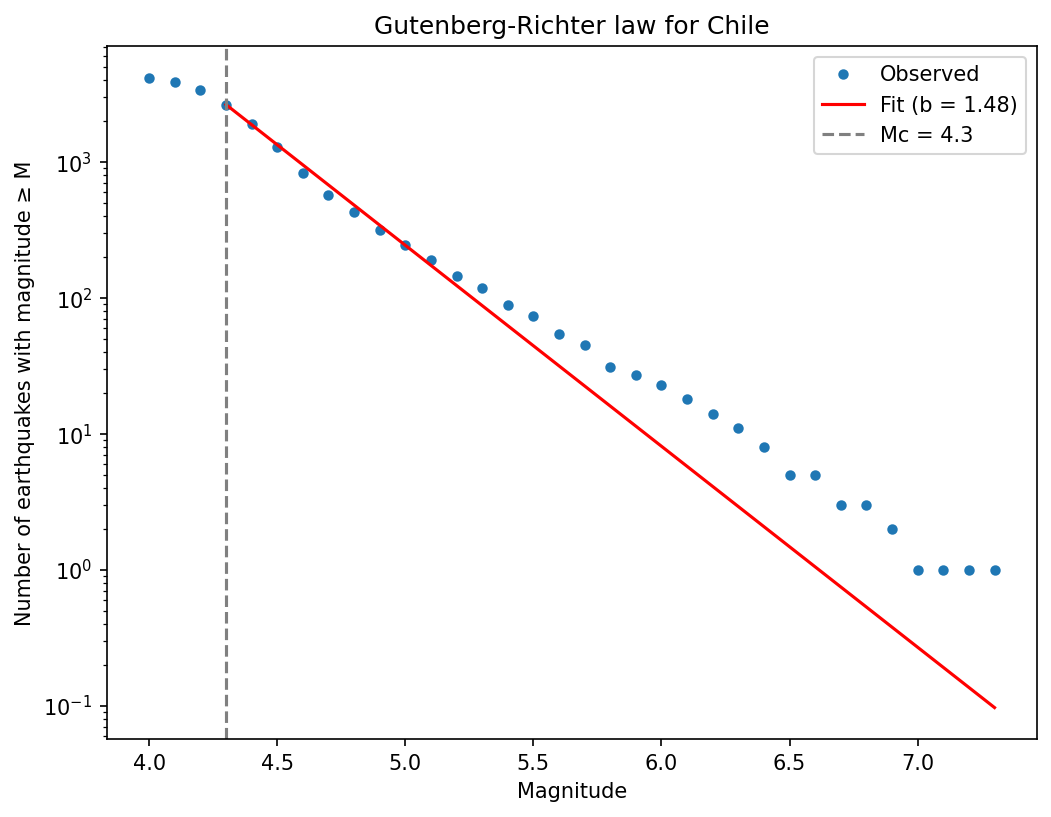
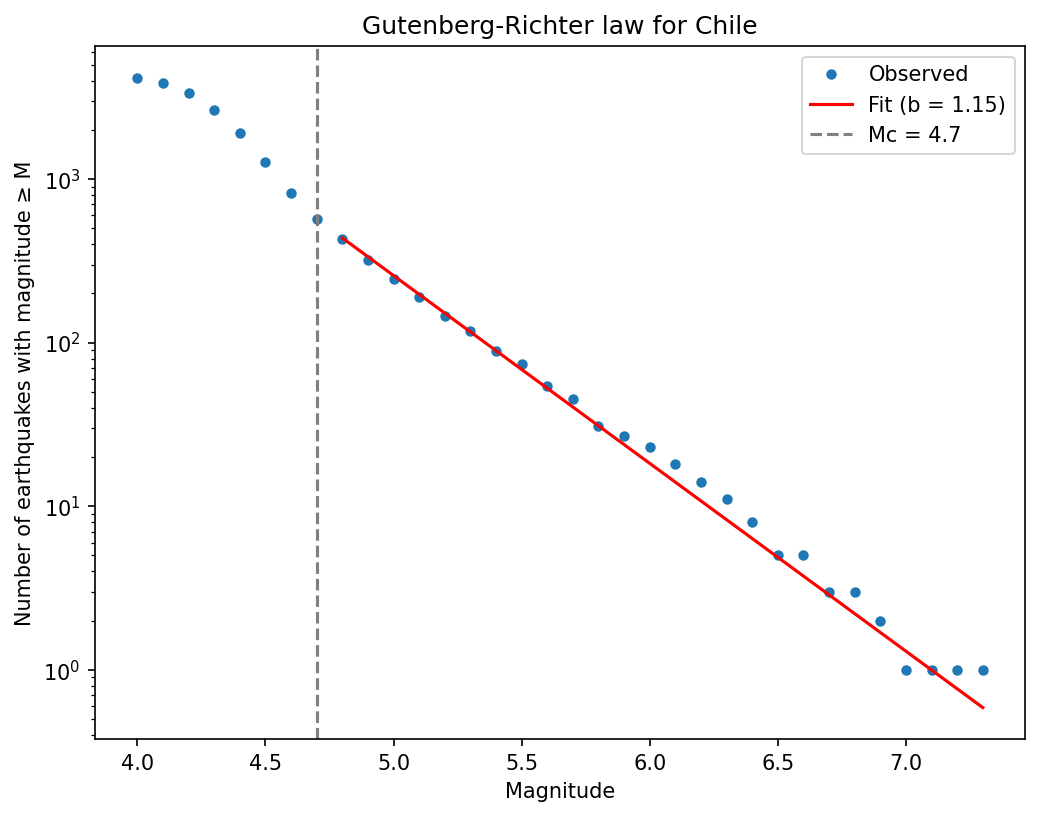
Add Gutenberg-Richter analysis with b-value stability check

diff --git a/src/b_value_check.py b/src/b_value_check.py
@@ -1,0 +1,21 @@
+"""Check how stable the b-value is when the completeness magnitude Mc changes."""
+
+from pathlib import Path
+
+import numpy as np
+import pandas as pd
+
+DATA_FILE = Path("data/earthquakes_chile.csv")
+BIN = 0.1
+
+# Round to one decimal to avoid floating point problems at the cutoffs
+mags = np.round(pd.read_csv(DATA_FILE)["mag"].to_numpy(), 1)
+
+print(f"{'Mc':>4} {'N':>6} {'b':>6} {'+/-':>6}")
+for mc in np.round(np.arange(4.0, 5.1, 0.1), 1):
+    above = mags[mags >= mc - 1e-9]
+    if len(above) < 50:
+        break
+    b = np.log10(np.e) / (above.mean() - (mc - BIN / 2))
+    err = b / np.sqrt(len(above))  # Aki (1965) standard error
+    print(f"{mc:>4.1f} {len(above):>6} {b:>6.2f} {err:>6.2f}")

diff --git a/src/gutenberg_richter.py b/src/gutenberg_richter.py
@@ -17,7 +17,7 @@ mags = df["mag"].to_numpy()
 # Simple "maximum curvature" method: the most common magnitude bin.
 bins = np.arange(mags.min(), mags.max() + BIN, BIN)
 counts, edges = np.histogram(mags, bins=bins)
-mc = edges[np.argmax(counts)]
+mc = 4.7  # chosen from b_value_check.py: b stabilizes from here
 
 # b-value with the Aki-Utsu maximum likelihood estimate
 above = mags[mags >= mc]
